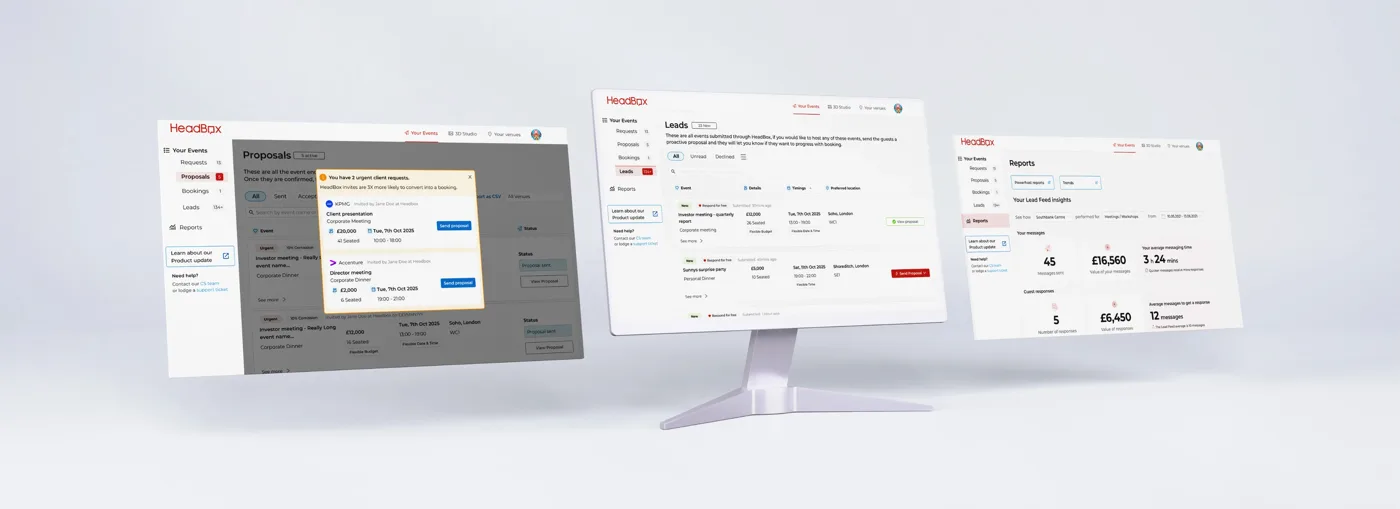
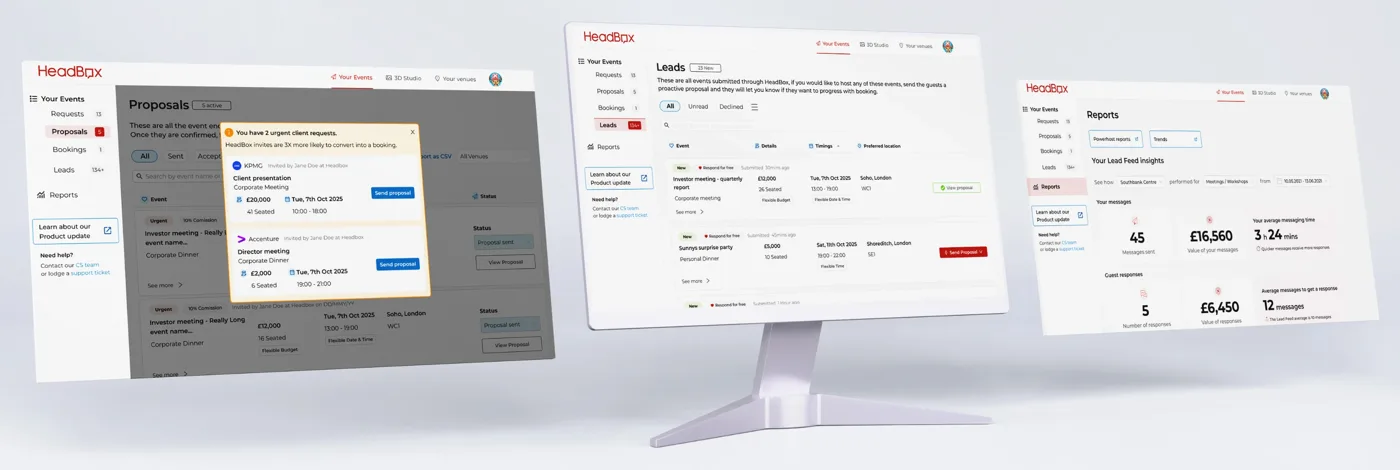
HostHQ card carousel: fill the card frame
Claude-Session: https://claude.ai/code/session_01M3sQFEaxMFSCL1fvnxLDvQ

diff --git a/src/data/content.ts b/src/data/content.ts
@@ -77,18 +77,14 @@ export const caseStudies: CaseStudy[] = [
       {
         src: hqOverview,
         alt: 'Three HostHQ screens floating around a monitor: proposals with an urgent-requests alert, leads, and Lead Feed reports',
-        fit: 'contain',
-        bg: 'linear-gradient(#dadde6, #eef0f4)', // continues the mockup's own backdrop above and below it
       },
       {
         src: hqRequests,
         alt: 'A laptop showing the HostHQ requests list, with urgent events and Send Proposal buttons',
-        fit: 'contain',
       },
       {
         src: hqProposal,
         alt: 'A tablet showing a HostHQ submitted proposal with booking status and availability',
-        fit: 'contain',
       },
     ],
   },
